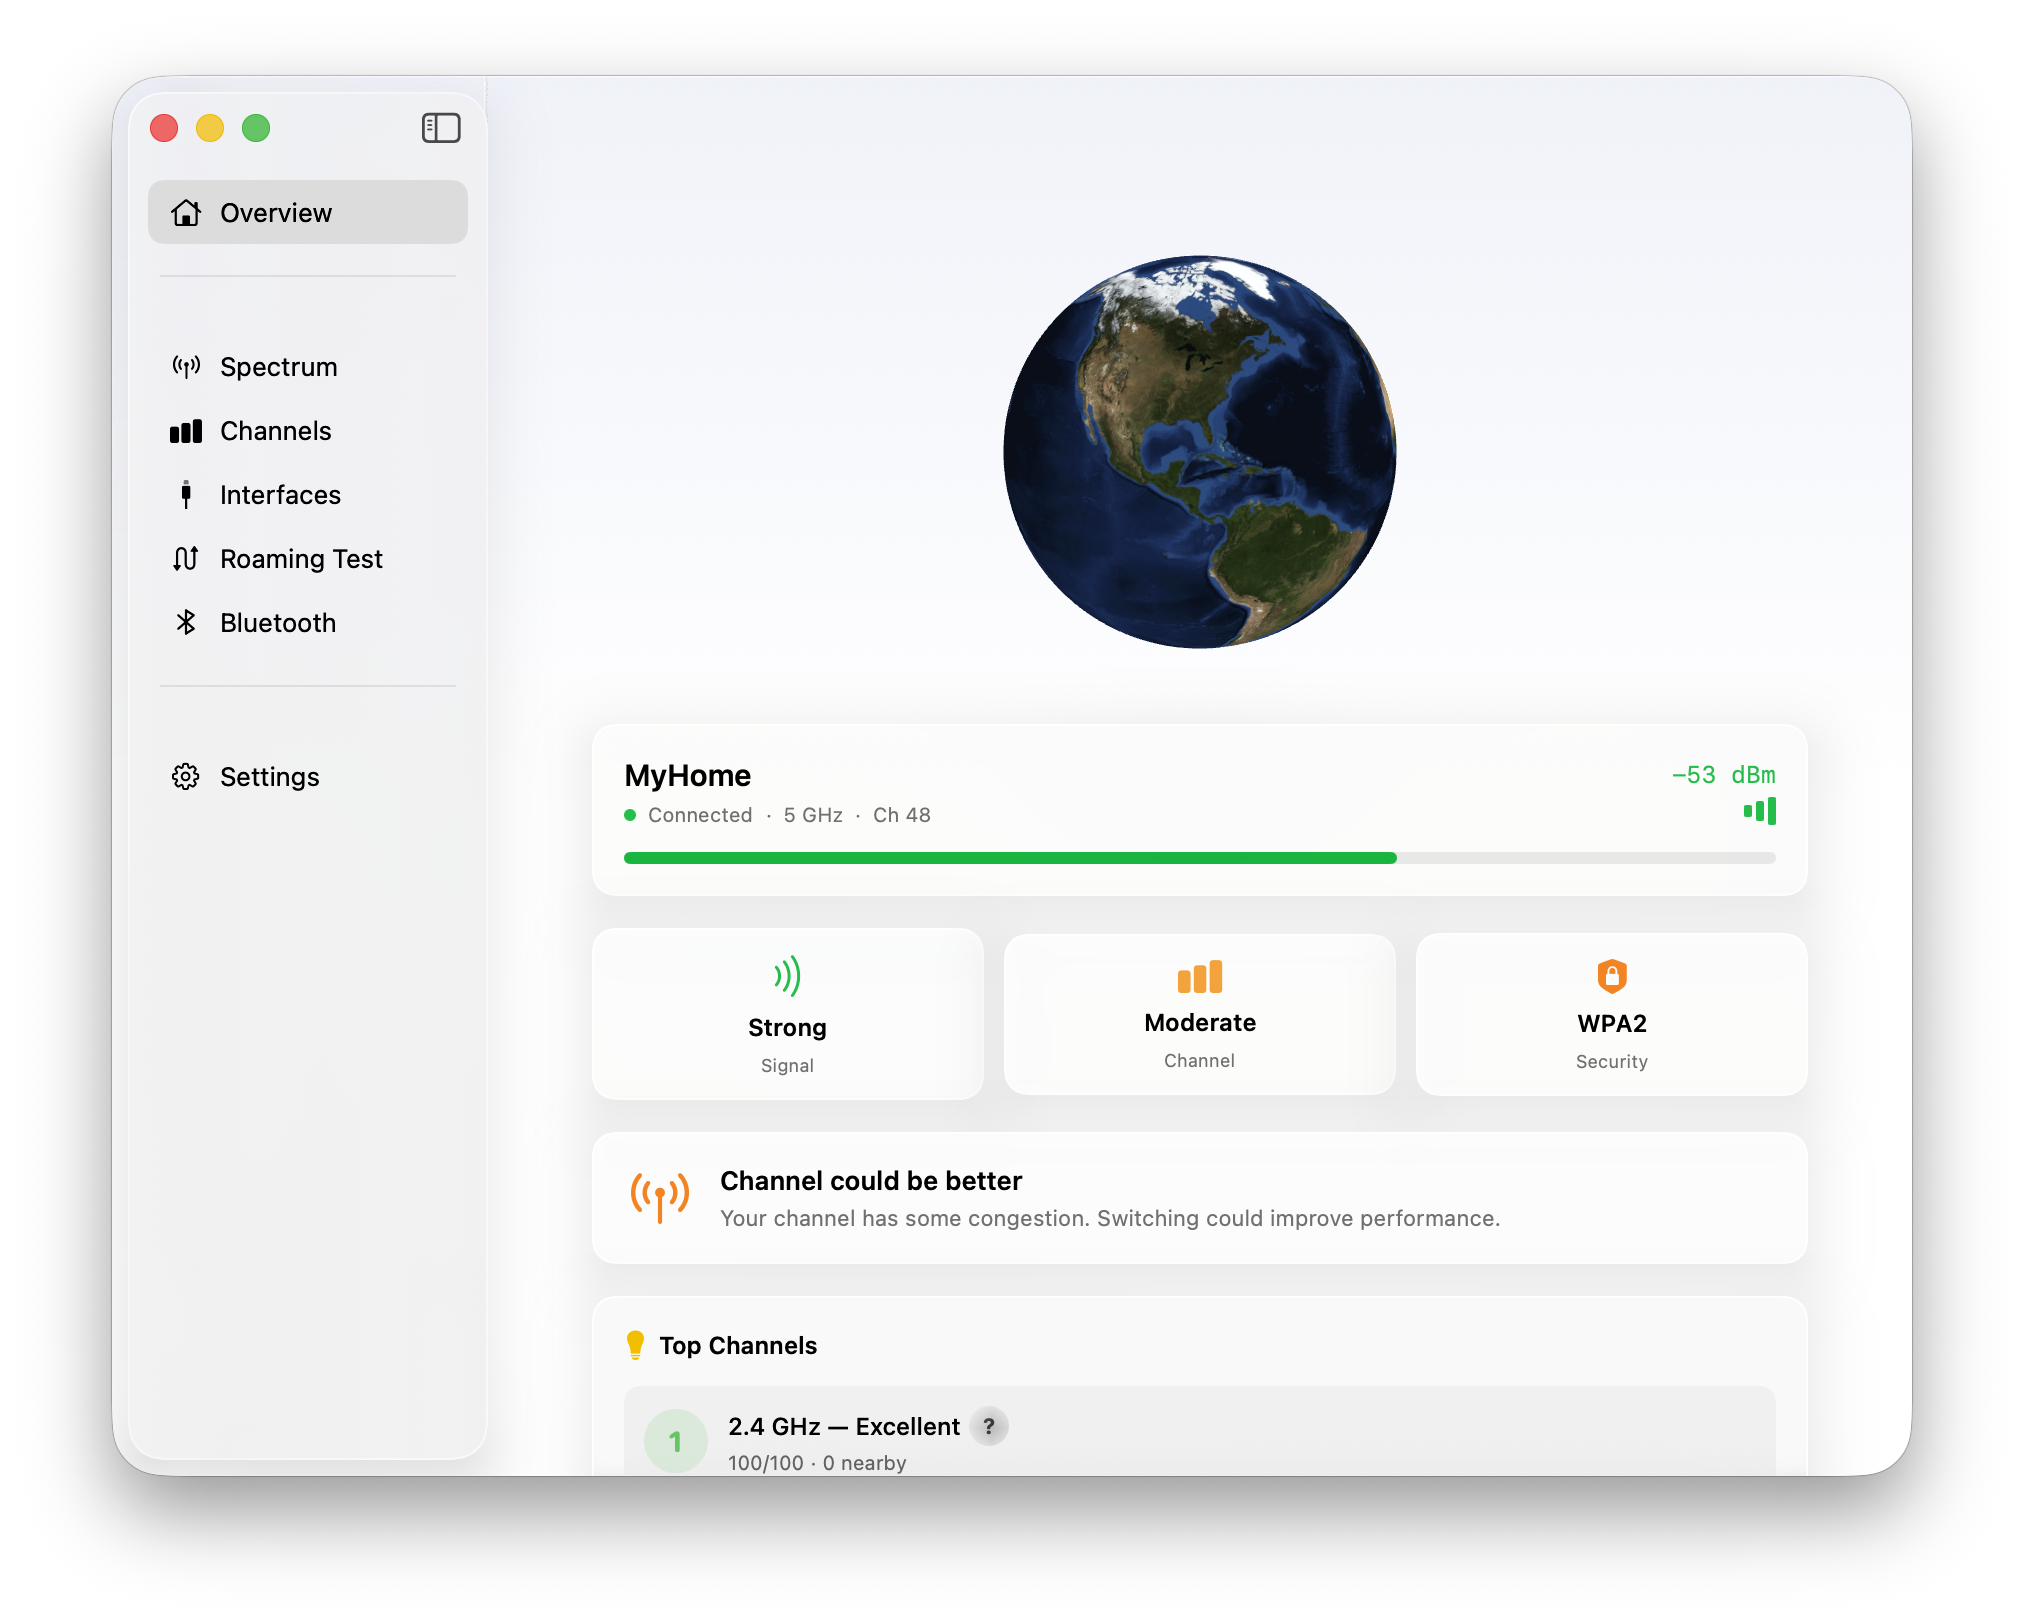
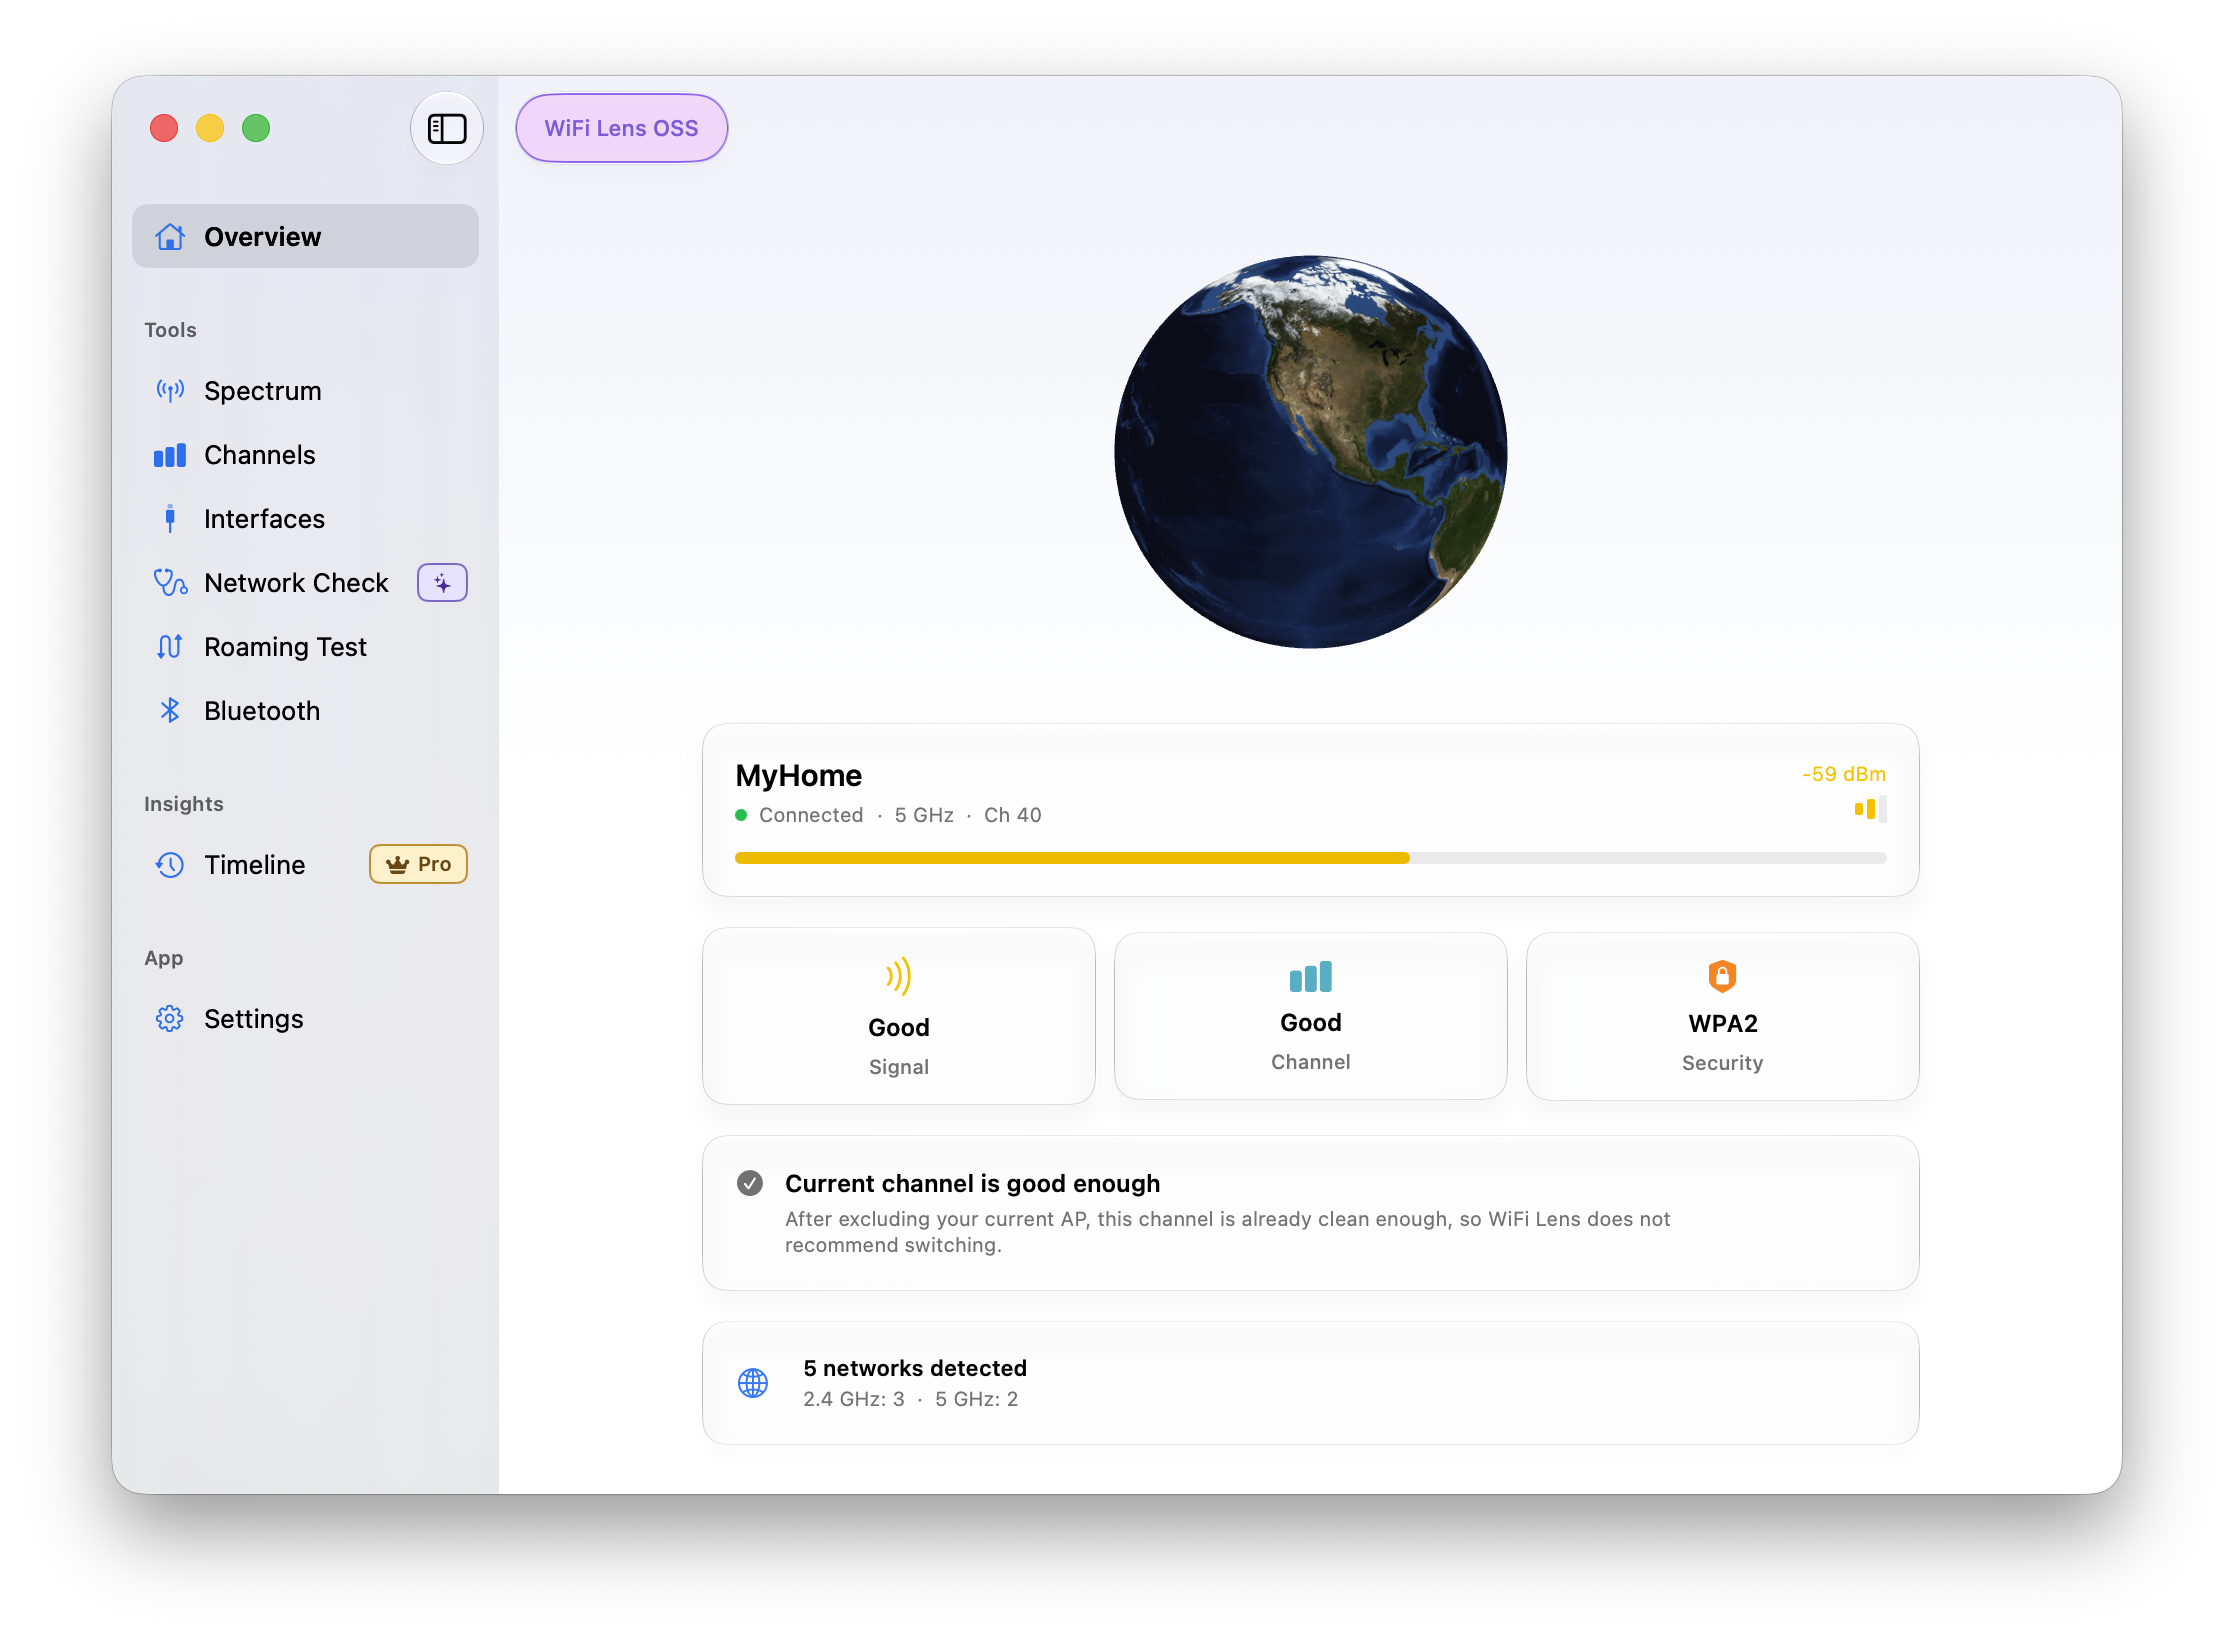
fix: adapt sidebar badges to available width

diff --git a/WiFiLens/Sources/WiFiLens/App/SidebarView.swift b/WiFiLens/Sources/WiFiLens/App/SidebarView.swift
@@ -259,11 +259,19 @@ struct SidebarView: View {
     @ViewBuilder
     private func sidebarLabel(for page: SidebarPage) -> some View {
         if let badgeStyle = page.badgeStyle {
-            HStack(spacing: 8) {
-                Label(page.label, systemImage: page.icon)
-                    .lineLimit(1)
-                Spacer(minLength: 8)
-                SidebarBadge(style: badgeStyle)
+            ViewThatFits(in: .horizontal) {
+                SidebarBadgeRowContent(
+                    title: page.label,
+                    icon: page.icon,
+                    style: badgeStyle,
+                    presentation: .full
+                )
+                SidebarBadgeRowContent(
+                    title: page.label,
+                    icon: page.icon,
+                    style: badgeStyle,
+                    presentation: .compact
+                )
             }
         } else {
             Label(page.label, systemImage: page.icon)
@@ -277,5 +285,25 @@ struct SidebarView: View {
             .textCase(nil)
             .padding(.top, 6)
             .padding(.bottom, 2)
+    }
+}
+
+struct SidebarBadgeRowContent: View {
+    static let minimumGap: CGFloat = 8
+
+    let title: String
+    let icon: String
+    let style: SidebarBadge.Style
+    let presentation: SidebarBadge.Presentation
+
+    var body: some View {
+        HStack(spacing: 0) {
+            Label(title, systemImage: icon)
+                .lineLimit(1)
+                .fixedSize(horizontal: presentation == .full, vertical: false)
+                .layoutPriority(1)
+            Spacer(minLength: Self.minimumGap)
+            SidebarBadge(style: style, presentation: presentation)
+        }
     }
 }

diff --git a/WiFiLens/Sources/WiFiLens/App/SidebarBadge.swift b/WiFiLens/Sources/WiFiLens/App/SidebarBadge.swift
@@ -3,6 +3,17 @@ import SwiftUI
 
 /// Compact metadata displayed at the trailing edge of a sidebar destination.
 struct SidebarBadge: View {
+    enum Presentation: Hashable {
+        case full
+        case compact
+
+        static let adaptiveOrder: [Self] = [.full, .compact]
+
+        var showsText: Bool {
+            self == .full
+        }
+    }
+
     struct Swatch: Equatable {
         let red: Double
         let green: Double
@@ -115,27 +126,35 @@ struct SidebarBadge: View {
 
     let icon: String
     let text: String
+    private let presentation: Presentation
     private let palette: Palette?
     private let tint: Color?
 
     @Environment(\.colorScheme) private var colorScheme
 
-    init(icon: String, text: String, tint: Color) {
+    init(icon: String, text: String, tint: Color, presentation: Presentation = .full) {
         self.icon = icon
         self.text = text
+        self.presentation = presentation
         palette = nil
         self.tint = tint
     }
 
-    init(icon: String, text: String, palette: Palette) {
+    init(icon: String, text: String, palette: Palette, presentation: Presentation = .full) {
         self.icon = icon
         self.text = text
+        self.presentation = presentation
         self.palette = palette
         tint = nil
     }
 
-    init(style: Style) {
-        self.init(icon: style.icon, text: style.text, palette: style.palette)
+    init(style: Style, presentation: Presentation = .full) {
+        self.init(
+            icon: style.icon,
+            text: style.text,
+            palette: style.palette,
+            presentation: presentation
+        )
     }
 
     var body: some View {
@@ -144,9 +163,11 @@ struct SidebarBadge: View {
                 .font(.system(size: Metrics.iconSize, weight: .semibold))
                 .accessibilityHidden(true)
 
-            Text(text)
-                .font(.system(size: Metrics.textSize, weight: .semibold))
-                .lineLimit(1)
+            if presentation.showsText {
+                Text(text)
+                    .font(.system(size: Metrics.textSize, weight: .semibold))
+                    .lineLimit(1)
+            }
         }
         .padding(.horizontal, Metrics.horizontalPadding)
         .padding(.vertical, Metrics.verticalPadding)
@@ -159,6 +180,7 @@ struct SidebarBadge: View {
         .fixedSize(horizontal: true, vertical: false)
         .accessibilityElement(children: .ignore)
         .accessibilityLabel(text)
+        .help(text)
         .allowsHitTesting(false)
     }
 

diff --git a/WiFiLens/Tests/WiFiLensTests/App/MenuBarWindowBehaviorTests.swift b/WiFiLens/Tests/WiFiLensTests/App/MenuBarWindowBehaviorTests.swift
@@ -1,4 +1,5 @@
 import AppKit
+import SwiftUI
 import Testing
 @testable import WiFi_Lens
 
@@ -49,6 +50,37 @@ struct MenuBarWindowBehaviorTests {
         #expect(SidebarBadge.Metrics.iconSize == 9)
         #expect(SidebarBadge.Metrics.verticalPadding == 3)
         #expect(SidebarBadge.Metrics.borderWidth == 1)
+    }
+
+    @Test("Sidebar badges prefer full content before compact icon fallback")
+    func sidebarBadgeAdaptivePresentationOrder() {
+        #expect(SidebarBadge.Presentation.adaptiveOrder == [.full, .compact])
+        #expect(SidebarBadge.Presentation.full.showsText)
+        #expect(!SidebarBadge.Presentation.compact.showsText)
+    }
+
+    @MainActor
+    @Test("Sidebar badge row reserves one minimum gap between label and badge")
+    func sidebarBadgeRowUsesSingleMinimumGap() {
+        let label = NSHostingView(
+            rootView: Label("Network Check", systemImage: "stethoscope")
+                .lineLimit(1)
+                .fixedSize(horizontal: true, vertical: false)
+        )
+        let badge = NSHostingView(rootView: SidebarBadge(style: .preview))
+        let row = NSHostingView(
+            rootView: SidebarBadgeRowContent(
+                title: "Network Check",
+                icon: "stethoscope",
+                style: .preview,
+                presentation: .full
+            )
+        )
+        let expectedWidth = label.fittingSize.width
+            + SidebarBadgeRowContent.minimumGap
+            + badge.fittingSize.width
+
+        #expect(row.fittingSize.width <= expectedWidth + 1)
     }
 
     @Test("route intent preserves current page when route is nil")